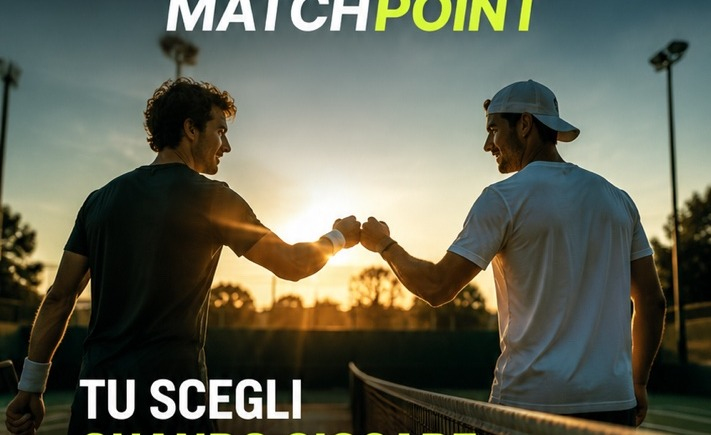
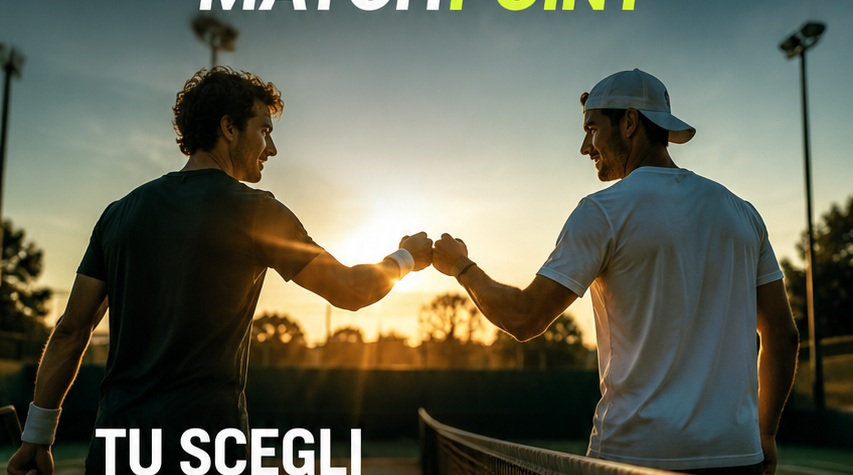
Correggi navigazione iPhone e home v0.9

diff --git a/index.html b/index.html
@@ -77,7 +77,7 @@ button.alt{background:#192628;color:#fff}
     <div class="headline">TU SCEGLI<br><span class="green">QUANDO GIOCARE.</span></div>
     <div class="sub"><span class="green">MATCHPOINT</span> TROVA CON CHI.</div>
     <div class="underline"></div>
-    <button class="cta" onclick="show('create')">🎾 &nbsp; TROVA IL MIO MATCH &nbsp; →</button>
+    <button id="mainCta" class="cta" type="button">🎾 &nbsp; TROVA IL MIO MATCH &nbsp; →</button>
     <div class="steps">
       <div class="step"><div class="ico">▣</div><b>SCEGLI QUANDO</b><p>Giorno, ora e livello.</p></div>
       <div class="step"><div class="ico">♙</div><b>MATCHPOINT TROVA IL MATCH</b><p>Un giocatore compatibile.</p></div>
@@ -95,11 +95,11 @@ button.alt{background:#192628;color:#fff}
 <label>Orario</label><input type="time" value="18:00">
 <label>📍 Zona</label><input id="place" placeholder="Es. Pieve di Soligo" autocomplete="off"><div id="suggestions"></div>
 <label>Livello</label><select><option>Principiante</option><option selected>Intermedio</option><option>Avanzato</option></select>
-<button onclick="show('found')">CERCA IL MIO MATCH</button><button class="alt" onclick="show('home')">INDIETRO</button>
+<button data-go="found">CERCA IL MIO MATCH</button><button class="alt" data-go="home">INDIETRO</button>
 </section>
 
 <section id="found" class="screen">
-<h2>🎉 Match trovato!</h2><div class="card"><b>Sandro ↔ Luca</b><p>Domani · 18:00 · Intermedio</p><p>📍 6 km di distanza</p></div><button onclick="show('clubs')">SCEGLI IL CAMPO</button>
+<h2>🎉 Match trovato!</h2><div class="card"><b>Sandro ↔ Luca</b><p>Domani · 18:00 · Intermedio</p><p>📍 6 km di distanza</p></div><button data-go="clubs">SCEGLI IL CAMPO</button>
 </section>
 
 <section id="clubs" class="screen">
@@ -110,26 +110,131 @@ button.alt{background:#192628;color:#fff}
 <div class="card"><b>Tennis Club Susegana</b><p class="muted">9,4 km · comodo per entrambi</p><button onclick="chooseClub('Tennis Club Susegana')">PROPONI QUESTO CAMPO</button></div>
 </section>
 
-<section id="choice" class="screen"><h2>Campo proposto</h2><div class="card"><b id="chosenClub"></b><p class="muted">Hai proposto questo campo a Luca.</p><div class="status">👤 Luca ha accettato il campo.</div></div><button onclick="show('booking')">CONTINUA</button></section>
+<section id="choice" class="screen"><h2>Campo proposto</h2><div class="card"><b id="chosenClub"></b><p class="muted">Hai proposto questo campo a Luca.</p><div class="status">👤 Luca ha accettato il campo.</div></div><button data-go="booking">CONTINUA</button></section>
 <section id="booking" class="screen"><h2>Chi prenota?</h2><div class="card"><b id="bookingClub"></b><p>Domani · 18:00</p></div><p class="muted">Uno dei due prende in carico la prenotazione.</p><button onclick="book('Sandro')">SANDRO PRENOTA</button><button class="alt" onclick="book('Luca')">LASCIA PRENOTARE LUCA</button></section>
-<section id="waiting" class="screen"><h2>📞 Prenotazione in corso</h2><div class="card"><p id="wait" class="muted"></p><div class="status">🟡 In attesa della conferma del campo</div></div><button onclick="confirmBooking()">CONFERMA PRENOTAZIONE EFFETTUATA</button></section>
-<section id="confirmed" class="screen"><h2>✅ Partita confermata</h2><div class="card"><b>Sandro vs Luca</b><p id="confirmedClub"></p><p>📅 Domani · 18:00</p><div class="status success">🟢 Campo prenotato</div></div><button onclick="show('score')">INSERISCI RISULTATO</button></section>
+<section id="waiting" class="screen"><h2>📞 Prenotazione in corso</h2><div class="card"><p id="wait" class="muted"></p><div class="status">🟡 In attesa della conferma del campo</div></div><button data-go="confirmed">CONFERMA PRENOTAZIONE EFFETTUATA</button></section>
+<section id="confirmed" class="screen"><h2>✅ Partita confermata</h2><div class="card"><b>Sandro vs Luca</b><p id="confirmedClub"></p><p>📅 Domani · 18:00</p><div class="status success">🟢 Campo prenotato</div></div><button data-go="score">INSERISCI RISULTATO</button></section>
 <section id="score" class="screen"><h2>Inserisci il risultato</h2><p class="muted">Spazio per 5 set. Compila solo quelli effettivamente giocati.</p><div id="sets"></div><button onclick="sendScore()">INVIA PER CONFERMA</button></section>
-<section id="result" class="screen"><h2>Risultato inviato</h2><div class="card"><div id="resultText" class="score"></div><p class="muted">Luca deve confermare il risultato.</p></div><button onclick="show('history')">SIMULA CONFERMA DI LUCA</button></section>
-<section id="history" class="screen"><h2>Le mie partite</h2><div class="card"><b>🎾 Sandro vs Luca</b><div id="historyText" class="score"></div><div class="status success">✅ Risultato confermato</div></div><button onclick="show('home')">NUOVO MATCH</button></section>
+<section id="result" class="screen"><h2>Risultato inviato</h2><div class="card"><div id="resultText" class="score"></div><p class="muted">Luca deve confermare il risultato.</p></div><button data-go="history">SIMULA CONFERMA DI LUCA</button></section>
+<section id="history" class="screen"><h2>Le mie partite</h2><div class="card"><b>🎾 Sandro vs Luca</b><div id="historyText" class="score"></div><div class="status success">✅ Risultato confermato</div></div><button data-go="home">NUOVO MATCH</button></section>
 
-<nav><div class="active" onclick="show('home')"><div class="ico">⌂</div>Home</div><div onclick="show('create')"><div class="ico">⌕</div>Cerca</div><div onclick="show('history')"><div class="ico">▣</div>Le mie partite</div><div><div class="ico">◯</div>Profilo</div></nav>
+<nav><div class="active" data-go="home"><div class="ico">⌂</div>Home</div><div onclick="show('create')"><div class="ico">⌕</div>Cerca</div><div data-go="history"><div class="ico">▣</div>Le mie partite</div><div><div class="ico">◯</div>Profilo</div></nav>
 </div>
 <script>
-function show(id){document.querySelectorAll('.home,.screen').forEach(x=>x.classList.remove('active'));document.getElementById(id).classList.add('active');scrollTo(0,0)}
-let chosen='';
-function chooseClub(c){chosen=c;chosenClub.textContent=c;bookingClub.textContent=c;show('choice')}
-function book(who){wait.textContent=who+' ha preso in carico la prenotazione. Dopo aver prenotato, torna qui e conferma che il campo è stato realmente prenotato.';show('waiting')}
-function confirmBooking(){confirmedClub.textContent='📍 '+chosen;show('confirmed')}
-function sendScore(){let rows=[...document.querySelectorAll('.set')].map((s,i)=>{let a=s.querySelector('.a').value,b=s.querySelector('.b').value;if(a===''&&b==='')return '';return 'Set '+(i+1)+': '+a+'-'+b}).filter(Boolean);if(!rows.length){alert('Inserisci almeno un set.');return}let t=rows.join(' · ');resultText.textContent=t;historyText.textContent=t;show('result')}
-for(let i=1;i<=5;i++){let d=document.createElement('div');d.className='set';d.innerHTML='<div class="settitle">Set '+i+'</div><div class="scoreRow"><span>Sandro</span><input class="a" type="number" min="0" max="20" placeholder="-"></div><div class="scoreRow"><span>Luca</span><input class="b" type="number" min="0" max="20" placeholder="-"></div>';sets.appendChild(d)}
-const places=['Pieve di Soligo, TV','Vittorio Veneto, TV','Conegliano, TV','Farra di Soligo, TV'];place.addEventListener('input',()=>{let q=place.value.toLowerCase();suggestions.innerHTML=q?places.filter(x=>x.toLowerCase().includes(q)).map(x=>'<div class="card" onclick="place.value=\''+x+'\';suggestions.innerHTML=\'\'">📍 '+x+'</div>').join(''):''});
-show('home');
+function show(id){document.querySelectorAll('.home,.screen').forEach<script>
+document.addEventListener('DOMContentLoaded', function () {
+  const screens = document.querySelectorAll('.home,.screen');
+
+  function show(id) {
+    screens.forEach(function (el) { el.classList.remove('active'); });
+    const target = document.getElementById(id);
+    if (target) {
+      target.classList.add('active');
+      target.scrollTop = 0;
+      window.scrollTo(0, 0);
+    }
+  }
+
+  window.show = show;
+
+  let chosen = '';
+
+  window.chooseClub = function(c) {
+    chosen = c;
+    document.getElementById('chosenClub').textContent = c;
+    document.getElementById('bookingClub').textContent = c;
+    show('choice');
+  };
+
+  window.book = function(who) {
+    document.getElementById('wait').textContent =
+      who + ' ha preso in carico la prenotazione. Dopo aver prenotato, torna qui e conferma che il campo è stato realmente prenotato.';
+    show('waiting');
+  };
+
+  window.confirmBooking = function() {
+    document.getElementById('confirmedClub').textContent = '📍 ' + chosen;
+    show('confirmed');
+  };
+
+  window.sendScore = function() {
+    const rows = Array.from(document.querySelectorAll('.set')).map(function(s, i) {
+      const a = s.querySelector('.a').value;
+      const b = s.querySelector('.b').value;
+      if (a === '' && b === '') return '';
+      return 'Set ' + (i + 1) + ': ' + a + '-' + b;
+    }).filter(Boolean);
+
+    if (!rows.length) {
+      alert('Inserisci almeno un set.');
+      return;
+    }
+
+    const text = rows.join(' · ');
+    document.getElementById('resultText').textContent = text;
+    document.getElementById('historyText').textContent = text;
+    show('result');
+  };
+
+  // 5 set, compilabili solo se giocati
+  const sets = document.getElementById('sets');
+  for (let i = 1; i <= 5; i++) {
+    const d = document.createElement('div');
+    d.className = 'set';
+    d.innerHTML =
+      '<div class="settitle">Set ' + i + '</div>' +
+      '<div class="scoreRow"><span>Sandro</span><input class="a" type="number" min="0" max="20" placeholder="-"></div>' +
+      '<div class="scoreRow"><span>Luca</span><input class="b" type="number" min="0" max="20" placeholder="-"></div>';
+    sets.appendChild(d);
+  }
+
+  // Autocompletamento località senza affidarsi a variabili globali create dal browser
+  const placeInput = document.getElementById('place');
+  const suggestions = document.getElementById('suggestions');
+  const places = ['Pieve di Soligo, TV','Vittorio Veneto, TV','Conegliano, TV','Farra di Soligo, TV'];
+
+  placeInput.addEventListener('input', function() {
+    const q = placeInput.value.toLowerCase().trim();
+    if (!q) {
+      suggestions.innerHTML = '';
+      return;
+    }
+    suggestions.innerHTML = places
+      .filter(function(x) { return x.toLowerCase().includes(q); })
+      .map(function(x) {
+        return '<div class="card suggestion">📍 ' + x + '</div>';
+      }).join('');
+
+    suggestions.querySelectorAll('.suggestion').forEach(function(el, index) {
+      el.addEventListener('click', function() {
+        placeInput.value = places.filter(function(x) {
+          return x.toLowerCase().includes(q);
+        })[index];
+        suggestions.innerHTML = '';
+      });
+    });
+  });
+
+  // Eventi touch/click robusti per iPhone e Android.
+  document.querySelectorAll('[data-go]').forEach(function(btn) {
+    btn.addEventListener('click', function() { show(btn.dataset.go); });
+    btn.addEventListener('touchend', function(e) {
+      e.preventDefault();
+      show(btn.dataset.go);
+    }, {passive:false});
+  });
+
+  // Pulsante principale: listener diretto, senza dipendere dall'onclick inline.
+  const mainCta = document.getElementById('mainCta');
+  if (mainCta) {
+    const openCreate = function(e) {
+      if (e) e.preventDefault();
+      show('create');
+    };
+    mainCta.addEventListener('click', openCreate);
+    mainCta.addEventListener('touchend', openCreate, {passive:false});
+  }
+
+  show('home');
+});
 </script>
-</body>
-</html>
